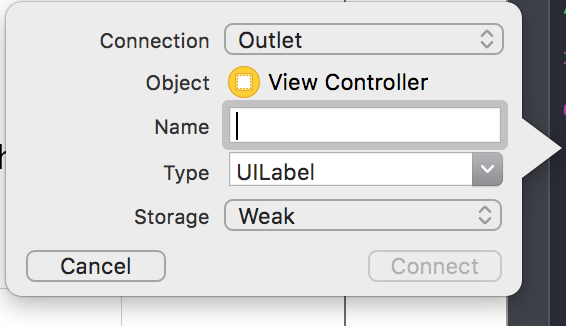
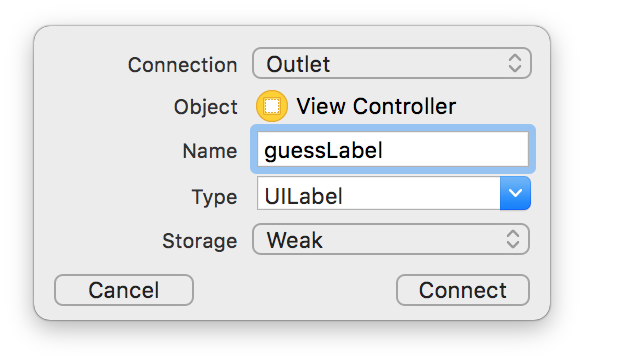
updated part1 part2 and part3for guessthenumber 2017

Changed region(s): [[0.0, 0.0, 1.0, 1.0], [0.0601, 0.0613, 0.0901, 0.092]]

diff --git a/tutorials/guess-the-number/part2.md b/tutorials/guess-the-number/part2.md
@@ -4,11 +4,14 @@ permalink: guess-the-number-part2.html
 sidebar: tutorials
 ---
 
-**Interface builder** is Xcode's GUI editor. For most projects, the interface is contained in the `Main.storyboard` file. Open it up and have a look around:
+**Interface builder** is Xcode's GUI editor. For most projects, the interface is contained in the `Main.storyboard` file. Open it up 
+and have a look around:
 
-<p align="center"> <img src="../images/guess-the-number/storyboardPic.png" align="center" style="max-width:75%"> </p>
+<p align="center"> <img src="../images/guess-the-number/projectSettings.png" align="center" style="max-width:75%"> </p>
 
 You should see something that looks like this. There are three important parts worth knowing:
+
+<p align="center"> <img src="../images/guess-the-number/storyboardPic.png" align="center" style="max-width:75%"> </p>
 
 1. **Editor Canvas:** This is where you design your layouts. What you see here is what you will get when you run the app on your phone, to an extent.
 3. **The Inspector:** This pane is where you modify anything and everything. It shows options for whatever you have selected.
@@ -16,7 +19,7 @@ You should see something that looks like this. There are three important parts w
 
 That screen in the middle is your first View Controller. Any changes you make to this view will appear on your screen when you run the app.
 
-Notice in the bottom left corner of the Editor Canvas a button that says `View as: iPhone 7 (wC, hR)`. If you click on it it should pop up your Size and Orientation panel:
+Notice in the bottom left corner of the Editor Canvas a button that says `View as: iPhone 8 (wC, hR)`. If you click on it it should pop up your Size and Orientation panel:
 
 <p align="center"> <img src="../images/guess-the-number/vcSize.png" align="center" style="max-width:75%"> </p>
 
@@ -49,13 +52,23 @@ Now, in order to actually input a guess, you will need a `Text Field`, and you w
 
 <p align="center"> <img src="../images/guess-the-number/finalLayout.png" align="center" style="max-width: 375px"> </p>
 
-Awesome! Now we have our view! If you run the application on the simulator, then you should be able to see the image above as the final layout on your phone! While this is great progress, we still need to be able to actually provide functionality to the app.
+Awesome! Now we have our view! If you run the application on the simulator, then you should be able to see the image above as the final layout on your phone! On the top left of XCode, **select iPhone X or iPhone 8 Plus** in the device/simulator dropdown and then press the **Play Button**.
+
+<p align="center"> <img src="../images/guess-the-number/selectSimulatorPlay.png" align="center" style="max-width: 375px"> </p>
+
+<p align="center"> <img src="../images/guess-the-number/simulatorView.png" align="center" style="max-width: 375px"> </p>
+
+While this is great progress, we still need to be able to actually provide functionality to the app.
 
 ### Accio Linking!
 
-In order to provide functionality to the app, there must be a way to connect the label, text field, and button to actual code. Luckily, there is a way! The ViewController displayed in front of you is automatically connected to a file called `ViewController.swift`. Before you open the file up, first click on the view you have in front of you. Now, at the top right corner of the Xcode interface, there is a toolbar. Go ahead and click on what looks like two circles intertwining. This allows you to see both the view from the storyboard and the swift file connected to that view simultaneously:
+In order to provide functionality to the app, there must be a way to connect the label, text field, and button to actual code. Luckily, there is a way! The ViewController displayed in front of you is automatically connected to a file called `ViewController.swift`. Before you open the file up, first click on the view you have in front of you. Now, at the top right corner of the Xcode interface, there is a toolbar. Go ahead and click on what looks like **two circles intertwining**. Alternatively you can **option-click** on the file you want to open in order to do the same thing.:
 
-<p align="center"> <img src="../images/guess-the-number/twoScreen.png" align="center" style="max-width:75%"> </p>
+<p align="center"> <img src="../images/guess-the-number/optionClickDoubleLinks.png" align="center" style="max-width:75%"> </p>
+
+This allows you to see both the view from the storyboard and the swift file connected to that view simultaneously. You should be on the `ViewController.swift` file. 
+
+<p align="center"> <img src="../images/guess-the-number/splitScreen.png" align="center" style="max-width:75%"> </p>
 
 Now, let's start with linking the label in our ViewController to the actual Swift code. In order to do this, you click on the label, **control-click-hold** on it, and drag your mouse to the swift file. A blue line should appear. Insert your `IBOutlet` right above the `viewDidLoad()` function like so:
 
@@ -70,6 +83,8 @@ With this screen, you can specify what type of connection you'll make between th
 <p align="center"> <img src="../images/guess-the-number/guessLabel.png" align="center" style="max-width:75%"> </p>
 
 Do the same linking process to the text field in the view, and name that connection `guessTextField`. Then go to the  **Attributes tab** for the text field and scroll until you find `Keyboard Type`. Change it to `Number Pad`. This will only allow numbers to be inputted into the text field.
+
+<p align="center"> <img src="../images/guess-the-number/keyboardType.png" align="center" style="max-width:75%"> </p>
 
 ### Next Time
 

diff --git a/tutorials/guess-the-number/part3.md b/tutorials/guess-the-number/part3.md
@@ -21,7 +21,7 @@ func generateRandomNumber() {
 ```
 With this function, we randomly generate a number within the range of 1-100 and assign the number to the variable `numberToGuess`. arc4random_uniform(N) is upperbound exclusive (0 - 99) so you need to add 1 to make 1 - 100.
 
-While this is great, we need to make sure that at the start of the app, a random number is generated. In order to do that, we will call the function we just created in the already existing `viewDidLoad` function in `ViewController.swift`:
+While this is great, we need to make sure that at the start of the app, a random number is generated. In order to do that, we will call the function we just created in the already existing `viewDidLoad` function in `ViewController.swift` like so:
 
 ```swift
 override func viewDidLoad() {
@@ -30,12 +30,18 @@ override func viewDidLoad() {
 }
 ```
 
+The `viewDidLoad` function is called once when the view controller is loaded onto the app -- you could say its the main function of your view controller! Every `UIViewController` will have this function, so if you have any initial screen setup work to do, do it in `viewDidLoad`.
+
 Now when the application launches, a number will randomly be generated and saved to `numberToGuess`! Let's continue by finally connecting our submit button to the Swift file!
 
 ### A Button for All: IBAction
-An IBOutlet is a connection to a UI element. An IBAction is a connected action to a UI element. For a button, an IBAction is a function called when the button is pressed on the screen.
+An IBOutlet is a connected **variable** to a UI element. An IBAction is a connected **action/function** to a UI element. For a button, an IBAction is a function called when the button is pressed on the screen.
 
-Just like we did for the label and the textfield in Part 2, control-click the button and drag it to `ViewController.swift` right below everything. In the pop-up screen, **change the connection type** from `Outlet` to `Action`. Go ahead and name the function `submitButtonPressed`. After the IBAction function has been created, add two lines of code below:
+Just like we did for the label and the textfield in Part 2, control-click the button and drag it to `ViewController.swift` right below everything. In the pop-up screen, **change the connection type** from `Outlet` to `Action`. Go ahead and name the function `submitButtonPressed`.
+
+<p align="center"> <img src="../images/guess-the-number/ibaction.png" align="center" style="max-width:75%"> </p>
+
+After the IBAction function has been created, add two lines of code inside:
 
 ```swift
 @IBAction func submitButtonPressed(_ sender: UIButton) {
@@ -43,6 +49,10 @@ Just like we did for the label and the textfield in Part 2, control-click the bu
     print("\(numberToGuess)")
 }
 ```
+
+Your code should look like such: 
+
+<p align="center"> <img src="../images/guess-the-number/endPart3.png" align="center" style="max-width:75%"> </p>
 
 Run the app press the submit button. Your console should be outputting new randomly generated numbers every time! Dope.
 

diff --git a/tutorials/guess-the-number/part1.md b/tutorials/guess-the-number/part1.md
@@ -14,7 +14,7 @@ Click on "Create a new Xcode project", then a default screen should appear:
 
 <p align="center"> <img src="../images/guess-the-number/createProject.png" align="center" style="max-width:75%"> </p>
 
-Go ahead and click "Next", and on the next screen, make your project's name "Guess The Number":
+Select **Single View App** and click on "Next", and on the next screen, make your project's name "Guess The Number". 
 
 <p align="center"> <img src="../images/guess-the-number/inputProjectName.png" align="center" style="max-width:75%"> </p>
 
